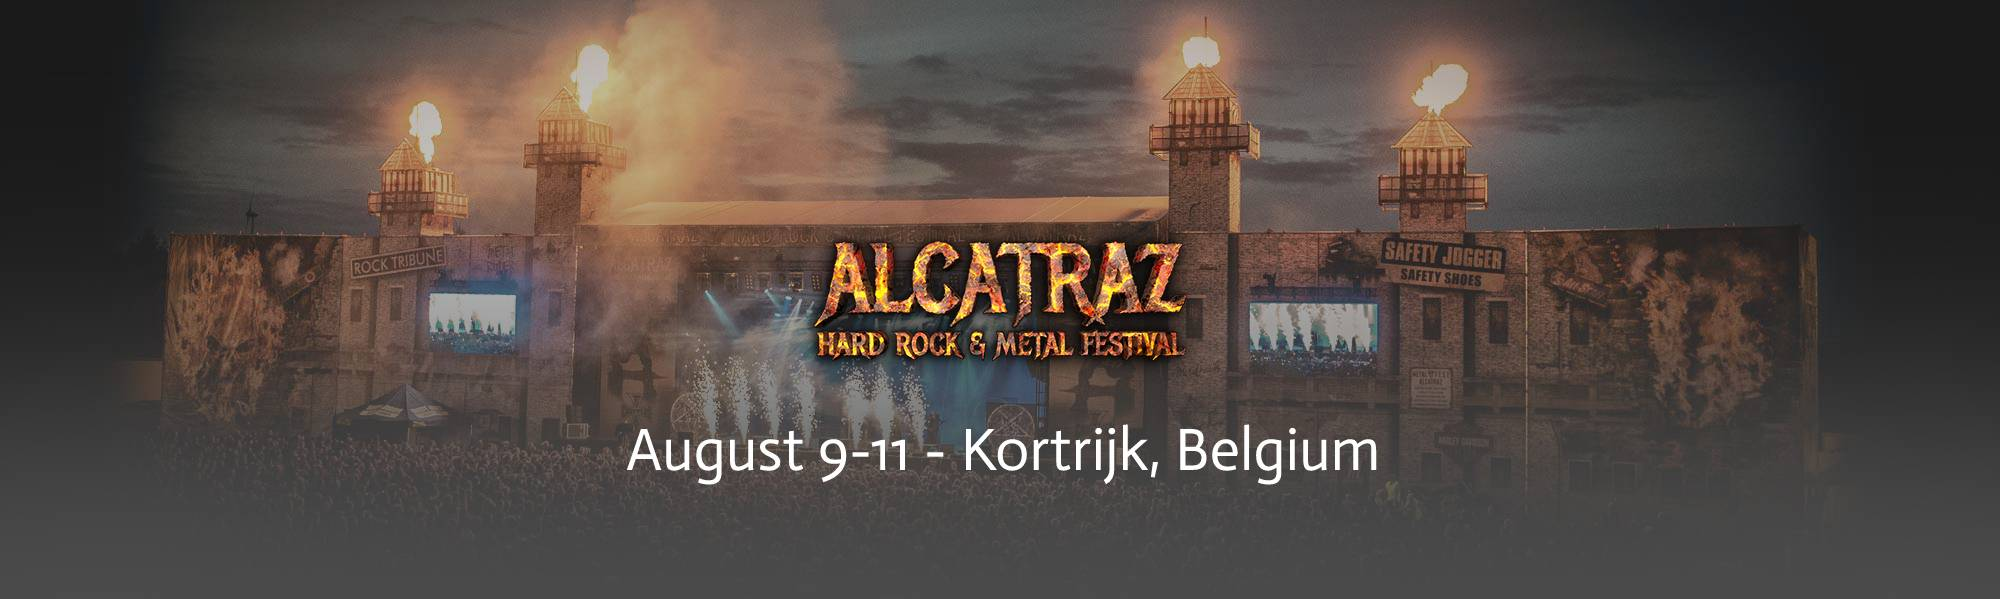
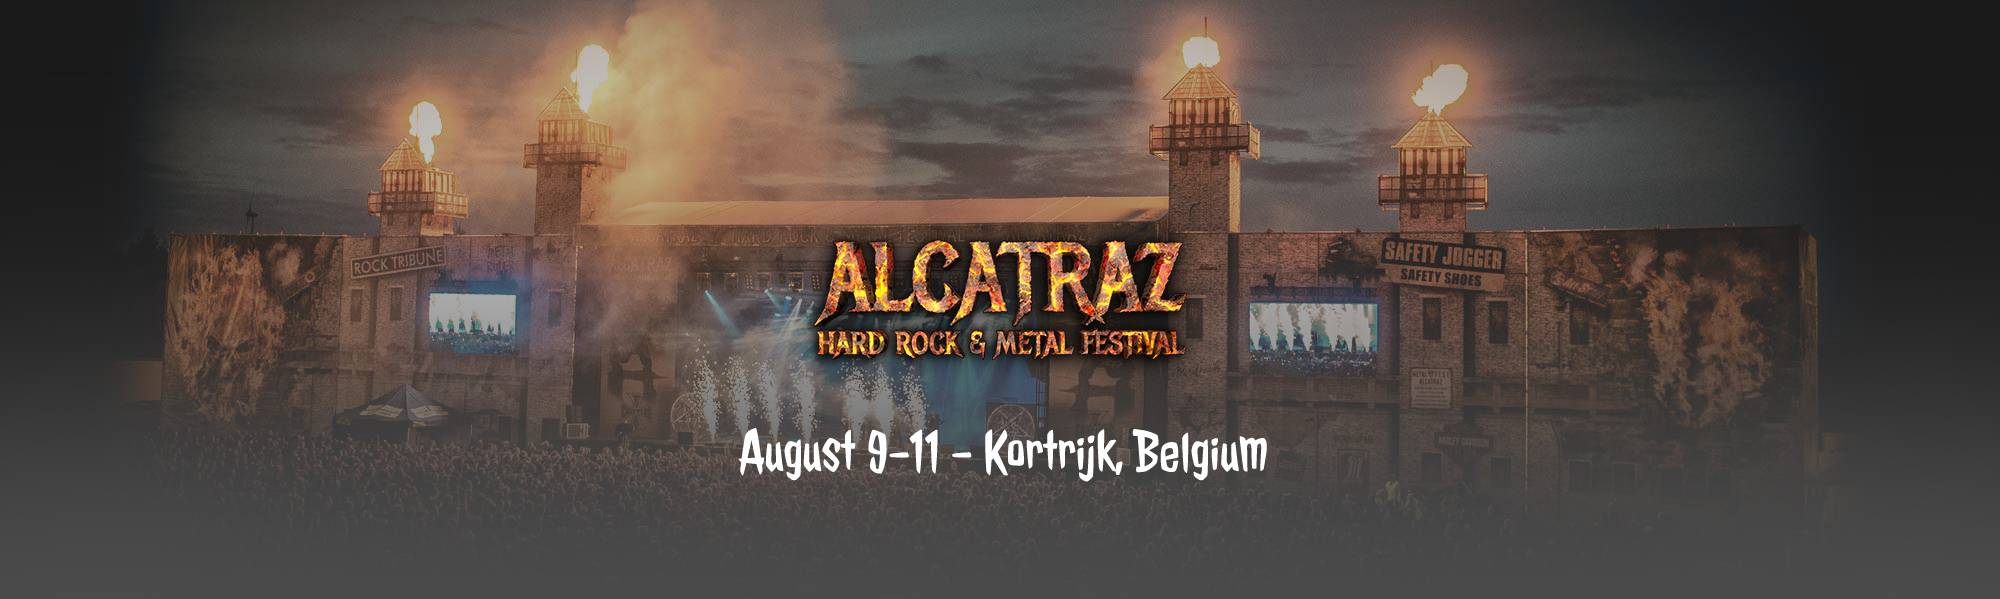
add font

Changed region(s): [[0.403, 0.3907, 0.589, 0.601], [0.31, 0.7212, 0.682, 0.8114]]

diff --git a/css/style.css b/css/style.css
@@ -1,6 +1,9 @@
+@import url('https://fonts.googleapis.com/css?family=Jolly+Lodger&display=swap');
+
 * {
     margin: 0 auto;
     box-sizing: border-box;
+    font-family: 'Jolly Lodger', cursive;
 }
 
 body {
